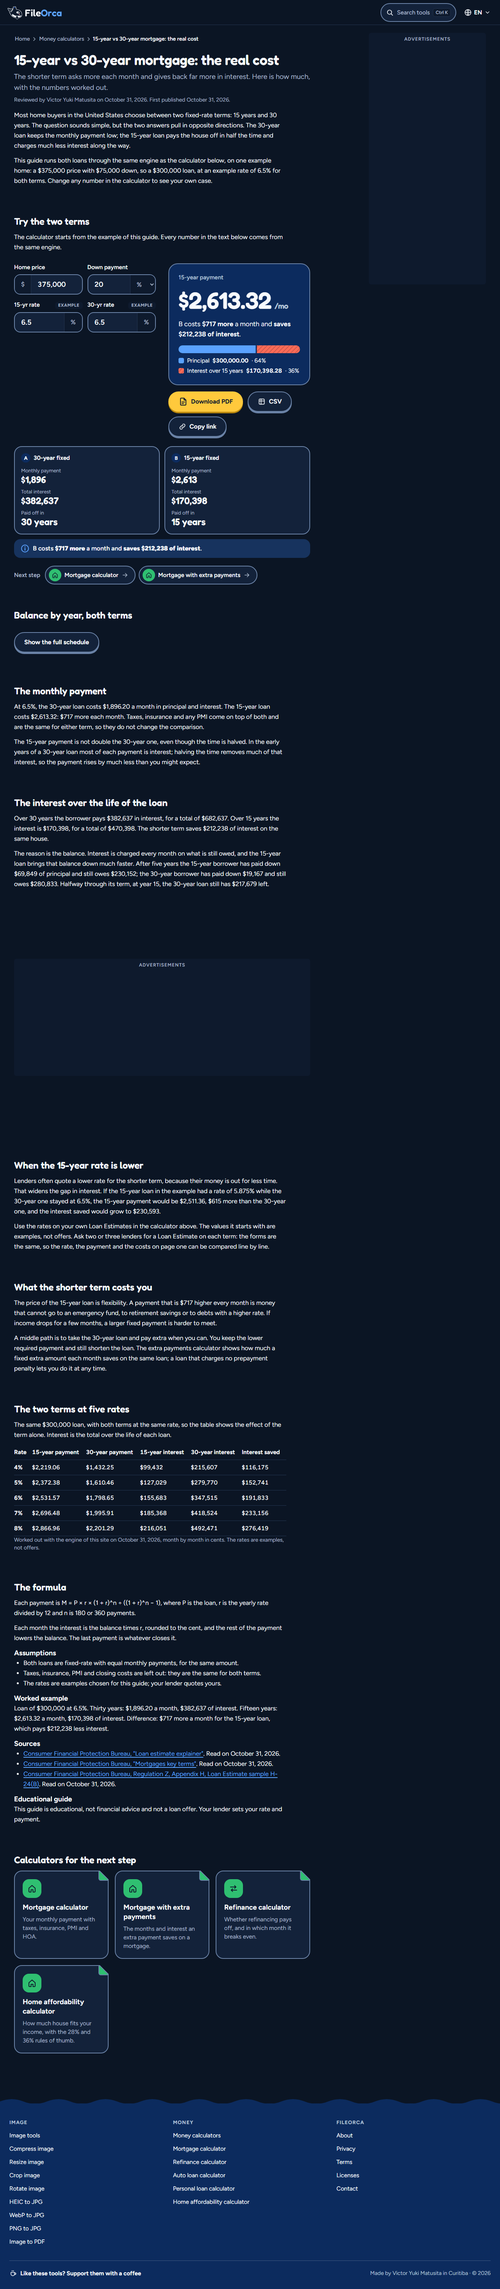
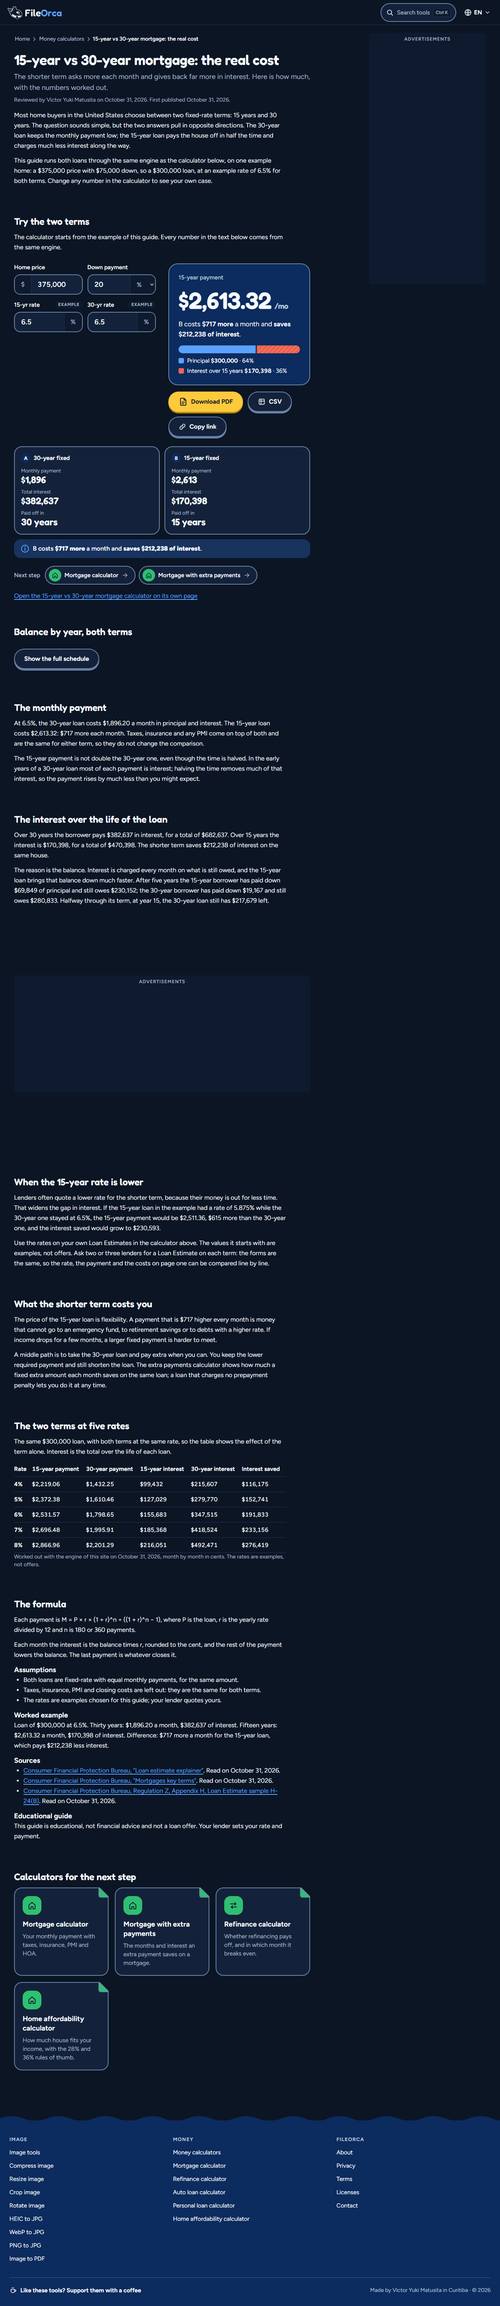
docs(f4): the adversarial review, decisions 137 to 141, screenshots after the fixes

diff --git a/docs/relatorios/REVISAO-F4.md b/docs/relatorios/REVISAO-F4.md
@@ -1,0 +1,206 @@
+# Revisão adversarial da F4
+
+Revisão final da run `fase-04` (calculadoras de dinheiro em inglês), no método da F3 (DECISOES § 92 a § 94 e § 139). O gabarito foi a ficha (`docs/prompts/prompt-fase-04.md`), o plano (`docs/relatorios/fase-04-plano.md`), o `CLAUDE.md`, o DECISOES.md § 110 a § 136 e o `docs/design/`.
+
+## Como rodou
+
+- **Commit fixo:** `ebfd6c1`, numa worktree só de leitura em `.claude/worktrees/revisao-f4`, com o próprio `pnpm install --frozen-lockfile` e o próprio `pnpm build`. A worktree foi removida no fim.
+- **Seis lentes Sonnet em contexto limpo**, cada uma com uma porta (`FO_PORT` 4174 a 4179) e uma pasta só dela em `.cache/lente-<x>/`:
+  1. corretude financeira;
+  2. privacidade dos números;
+  3. anúncio, política e YMYL;
+  4. acessibilidade;
+  5. desempenho e SEO;
+  6. design system.
+- **Céticos:** um cético próprio para cada achado crítico, alto ou médio, e um cético por lente para os baixos. Foram 24 céticos, cada um tentando refutar o achado com a regra "sem reprodução, refutado". Somando as lentes, foram 30 agentes, 1.290 chamadas de ferramenta e 34 minutos.
+- **Correções:** num agente só (o principal), cada uma com um teste que falha sem ela. Commits `8544ebe`, `a5b1a50`, `eba71cb`, `5d3f16b` e `e45415e`.
+- **Segunda passada:** um revisor Sonnet em contexto limpo leu só o diff das correções (`ebfd6c1..5d3f16b`) na mesma worktree, movida para `5d3f16b`.
+
+## Resultado
+
+| Severidade | Lentes | Depois dos céticos |
+| --- | --- | --- |
+| Crítico | 1 | 0 |
+| Alto | 1 | 1 |
+| Médio | 16 | 18 |
+| Baixo | 36 | 33 |
+| Refutado | (n/a) | 2 |
+
+- O único crítico da lente de acessibilidade era o número quebrado da Savings goal ("$1.2,261,029,503,889,166e+.27"). O cético o rebaixou a médio, porque só aparece com valores extremos dentro das faixas. É o mesmo ANU-2 da lente de anúncio. Foi corrigido no oráculo e no motor.
+- O único alto (DES-1, as caixas esticadas ao lado de um campo com ajuda) foi corrigido com subgrid (§ 137).
+- Os céticos subiram cinco baixos para médio: COR-8, ACE-4, ACE-6, ACE-10 e DES-10. Todos foram corrigidos.
+- Eles baixaram quatro médios para baixo: COR-5, ACE-3, SEO-1 e DES-3. O COR-5 e o SEO-1 foram corrigidos assim mesmo.
+- **Regra aplicada:**
+  - crítico e alto confirmados, sempre;
+  - médio, quando a correção é local (todos eram);
+  - baixo, quando a correção era local e barata; os outros vão para o relatório.
+- **Situação dos 54:** 32 corrigidos (contando os achados repetidos entre lentes) e 2 refutados. Ficam 20 pendentes: 18 baixos, o ACE-11 corrigido em parte e o DES-11, que virou registro (§ 140).
+
+## O que cada lente conferiu, em resumo
+
+- **Corretude:**
+  - os testes do oráculo, das definições, dos guias e do relatório, com 42 testes;
+  - as convenções do motor contra o oráculo, linha a linha;
+  - um fuzz de 7.038 renderizações das 18 definições, com invariantes (soma do cronograma, total, saldo final zero, sem `NaN` ou placeholder);
+  - todo valor em dólar das frases, rastreado até um número do motor;
+  - as premissas e os FAQ lidos contra o motor;
+  - os 5 guias, frase a frase;
+  - a APR refeita à parte;
+  - casos de borda pelas views reais.
+- **Privacidade:**
+  - os três specs da calculadora, nos dois navegadores (46 testes em cada);
+  - uma sonda própria em 40 cenários (cada opção de cada escolha, entrada em %, 10 linhas de dívidas e os 5 guias), com controle positivo de `fetch`, `sendBeacon` e `fetch` dentro do worker;
+  - o PDF sem metadados, a busca e um fuzz de 144 links do cenário.
+  - Nenhum número saiu do aparelho.
+- **Anúncio e YMYL:**
+  - o `ads.spec.ts` inteiro nos dois navegadores (50 testes em cada);
+  - uma medida própria de 23 páginas em seis larguras, com a Oli e o cronograma aberto;
+  - os blocos `data-ymyl` das 24 páginas, os portões de dinheiro e de conteúdo, a busca por texto proibido e a Privacidade e os Termos nos três idiomas.
+- **Acessibilidade:**
+  - o axe nas 25 páginas de dinheiro e em estados extras;
+  - a árvore de acessibilidade pelo CDP;
+  - a voz única, a navegação só por teclado nos dois navegadores e nas duas larguras, o contraste não textual, o reflow a 320 px, os valores máximos e o espaçamento de texto do WCAG 1.4.12.
+- **Desempenho e SEO:**
+  - o orçamento e os 16 ms;
+  - o pior caso do motor com a CPU 4 vezes mais lenta;
+  - o `gate:seo`, o `gate:links`, o JSON-LD e os sitemaps;
+  - o CLS e o LCP em 24 páginas;
+  - um Lighthouse próprio;
+  - a canibalização (sobreposição de 6-gramas do guia com a calculadora, de 18 a 25%).
+- **Design system:**
+  - o `design-checks.test.ts`;
+  - a cor computada em 20 páginas, nos dois temas;
+  - o CSS do bloco Money contra o `bundle.css`;
+  - a Oli e as suas poses;
+  - os alvos de toque, os chips, as relacionadas e o breadcrumb;
+  - os estados em PNG a 360 e 1280 px.
+
+## Achados que vieram de fora das lentes
+
+Antes da revisão, a própria run achou e corrigiu três defeitos, com teste:
+
+- **A comemoração empurrava o número** (`69eb38e`, § 140): na prévia, depois da primeira tecla, o número descia 96 px e saía da dobra no celular.
+- **Campos desalinhados** (`b3bb351`, § 137): achado no screenshot de 1280 px. É o mesmo DES-1 das lentes.
+- **O `networkidle` do WebKit do CI** (`5eee3a5`, § 138): nunca disparava nos hubs, com as requisições todas respondidas.
+
+## Os achados
+
+Na coluna "Lente → cético", a primeira severidade é a da lente; depois vêm o veredito do cético e a severidade dele. A lente de acessibilidade reusou os ids COR-1 e DES-1 em dois achados próprios: são o número quebrado da Savings goal e as caixas esticadas, e aparecem com esses ids na tabela dela.
+
+### (a) Corretude financeira
+
+| Id | Lente → cético | Achado | Situação |
+| --- | --- | --- | --- |
+| COR-1 | médio → confirmado (médio) | APY para APR custa 22 ms por tecla (orçamento da decisão 4: 16 ms) e calcula a raiz 365 duas vezes | corrigido em `eba71cb`; teste: `calc-speed.spec.ts`, "APY into APR, daily" (p95 1,6 ms) |
+| COR-2 | médio → confirmado (médio) | O FAQ da Personal loan manda zerar a tarifa financiada, e a página passa a mostrar a taxa nominal como APR | corrigido em `5d3f16b`; teste: `calc-defs.test.ts`, "the FAQ way to enter a fee added to the balance gives the true APR" |
+| COR-3 | médio → parcial (médio) | Estado de erro: o PDF da Savings goal leva '{deposit}' cru e o PDF de qualquer erro estoura a página | corrigido em `a5b1a50 e 5d3f16b`; teste: `calc-defs.test.ts` (pontas das faixas e estados de erro) e `calc.spec.ts` (DES-2, COR-3) |
+| COR-4 | médio → confirmado (médio) | Taxas pré-preenchidas sem a etiqueta 'example': taxa atual do Refinance e APR das dívidas | corrigido em `5d3f16b`; teste: `calc.spec.ts`, "every prefilled rate carries the example tag" |
+| COR-5 | médio → parcial (baixo) | Guia do Refinance diz 'a new 30 years loan' | corrigido em `5d3f16b`; teste: `calc.spec.ts`, "each guide links the calculator it embeds" (sem "N years loan") |
+| COR-6 | baixo → confirmado (baixo) | Singular e plural errados com n = 1: '1 years', '1 days', '1 months', '1 payments' | pendente (baixo): "1 years", "1 payments" com n = 1; texto, sem número errado |
+| COR-7 | baixo → confirmado (baixo) | Com entrada = preço (empréstimo zero) os presets de hipoteca mostram frases sem sentido, e o oráculo não tem esse caso | pendente (baixo): entrada igual ao preço nos presets dá frase sem sentido; caso de borda raro |
+| COR-8 | baixo → confirmado (médio) | Extra payments: com extra abaixo de uns $5 por mês a frase diz que não há extra, ao lado de um valor de juros economizados | corrigido em `5d3f16b`; teste: `calc-defs.test.ts`, "an extra too small to end the loan sooner still says what it saves" |
+| COR-9 | baixo → refutado (baixo) | A frase da diferença destoa em 1 dólar da diferença dos dois cards em cerca de 28% dos casos | refutado pelo cético |
+| COR-10 | baixo → parcial (baixo) | Home affordability: o 'máximo' sai arredondado para cima em dólares e o teto negativo usa hífen | pendente (baixo): arredondamento do máximo em dólares na frase da Home affordability; o resumo e o PDF têm centavos |
+| COR-11 | baixo → parcial (baixo) | O 'mínimo' das falas too-low é a condição necessária e leva a outro erro ou a prazos de 40 anos | pendente (baixo): o "mínimo" das falas too-low é a condição necessária, não a suficiente |
+| COR-12 | baixo → confirmado (baixo) | O oráculo não cobre o limite de 1.200 meses (too-long) em três calculadoras nem o extra único no último mês | pendente (baixo): o oráculo ainda não cobre too-long em três calculadoras nem o extra único no último mês |
+| COR-13 | baixo → confirmado (baixo) | Rent vs buy: 'Buying catches up in Year N' pode valer só por um tempo | pendente (baixo): "Buying catches up in Year N" pode valer só por um tempo; a tabela por ano mostra |
+| COR-14 | baixo → confirmado (baixo) | Credit card por prazo com saldo pequeno: 'pay $0.00 a month' | pendente (baixo): Credit card por prazo com saldo menor que o prazo em centavos dá parcela de $0.00; muda o motor, então pede caso no oráculo antes |
+| COR-15 | baixo → confirmado (baixo) | Afirmações de texto que não valem em geral (PMI igual nos dois prazos; premissa do guia de extras; 'juros uma vez por mês' em todas) | pendente (baixo): afirmações de texto gerais demais (PMI igual nos dois prazos e outras) |
+| COR-16 | baixo → confirmado (baixo) | Linhas do PDF sem rótulo e dois números de 'você' na poupança | pendente (baixo): linhas do PDF sem rótulo e dois números de "você" na poupança |
+| COR-17 | baixo → confirmado (baixo) | Refinance sem economia nem custo diz 'breaks even in month 1' e o atalho mostra 'Month 0' | pendente (baixo): Refinance sem economia nem custo diz "breaks even in month 1" |
+
+### (b) Privacidade dos números
+
+| Id | Lente → cético | Achado | Situação |
+| --- | --- | --- | --- |
+| PRI-1 | baixo → parcial (baixo) | O teste de privacidade deixa 14 sentinelas fora da busca e nunca digita nos campos de modo, nas linhas novas de dividas nem na entrada em % | pendente (baixo): o teste não digita nos campos que só aparecem com outro modo nem em linhas novas de dívidas; a sonda da lente cobriu 40 cenários e não achou vazamento |
+| PRI-2 | baixo → confirmado (baixo) | A asserção de que o link copiado foi lido nunca falha | corrigido em `5d3f16b`; teste: a própria asserção de `calc-privacy.spec.ts`, agora contra a sentinela no formato da página |
+| PRI-3 | baixo → confirmado (baixo) | Sem area de transferencia, o campo com o link fica com os numeros antigos depois de qualquer edicao | corrigido em `5d3f16b`; teste: `calc.spec.ts`, "without a clipboard, the shown link follows the numbers" |
+| PRI-4 | baixo → parcial (baixo) | cleanParams so fecha tool, target, format, outcome, reason e codec; lang, place e browser aceitam qualquer texto, e o teste so prova os fechados | pendente (baixo): lang, place e browser aceitam qualquer texto no cleanParams; nenhum deles vem de campo digitado |
+| PRI-5 | baixo → refutado (baixo) | O # com os numeros fica no location.href durante a visita inteira e o teste nao ve nenhum script de terceiro que o leia (AdSense) | refutado pelo cético |
+
+### (c) Anúncio, política e YMYL
+
+| Id | Lente → cético | Achado | Situação |
+| --- | --- | --- | --- |
+| ANU-1 | médio → parcial (médio) | Com a Oli cheer e a Placa, um resultado de 7 dígitos ou mais alarga o ResultHero: o painel passa de 150 px do anúncio lateral e a página rola no celular | corrigido em `5d3f16b`; teste: `calc.spec.ts`, "a long result with the cheer stays in its column" |
+| ANU-2 | médio → confirmado (médio) | Savings goal mostra o número 1.2,261,029,503,889,166e+.27 na legenda de juros quando a meta já está atingida, num valor que a faixa do campo aceita | corrigido em `8544ebe (oráculo) e a5b1a50 (motor)`; teste: `calc-oracle.test.ts` (casos too-large) e `calc-defs.test.ts` |
+| ANU-3 | médio → confirmado (médio) | Campos de taxa preenchidos com um valor de exemplo sem a etiqueta 'example' na Refinance e nas listas de dívidas | corrigido em `5d3f16b`; teste: o mesmo de COR-4 |
+| ANU-4 | baixo → confirmado (baixo) | As premissas do preset Biweekly se contradizem: 'juros uma vez por mês, taxa ÷ 12' e 'juros a cada duas semanas, taxa ÷ 26' | corrigido em `5d3f16b`; teste: `calc-defs.test.ts`, "Biweekly: the monthly rule of interest is said as the comparison" |
+| ANU-5 | baixo → confirmado (baixo) | A Privacidade não cita o sessionStorage da Oli e traz 'Última atualização' de 31/out com texto mudado em 1/nov | corrigido em `5d3f16b`; teste: `calc-defs.test.ts`, "the privacy policy names the Oli's session mark" |
+
+### (d) Acessibilidade
+
+| Id | Lente → cético | Achado | Situação |
+| --- | --- | --- | --- |
+| COR-1 | crítico → parcial (médio) | Savings goal mostra número quebrado ('$1.2,261,029,503,889,166e+.27') com valores dentro das faixas aceitas | corrigido em `8544ebe e a5b1a50`; teste: o mesmo de ANU-2 |
+| ACE-1 | médio → confirmado (médio) | O atraso de 500 ms do aria-live conta desde a última mudança do resultado, não desde a última tecla | corrigido em `5d3f16b`; teste: `calc.spec.ts`, "the hero speaks half a second after the last key press" |
+| ACE-2 | médio → parcial (médio) | O campo 'Home value change per year' (aceita negativo) usa inputmode="decimal", cujo teclado do iPhone não tem o sinal de menos | corrigido em `5d3f16b`; teste: `calc.spec.ts`, "the one field that takes a minus opens the text keyboard" |
+| ACE-3 | médio → parcial (baixo) | A unidade do campo (years, months, %, $) é só visual: não entra no nome nem na descrição do campo | pendente (baixo): a unidade (years, %, $) é visual e o nome do campo não a traz; o erro diz a unidade |
+| DES-1 | médio → confirmado (médio) | Um campo ao lado de outro com ajuda ou erro estica e passa de 48 px (HOA dues fica com 86 a 96 px de altura na Mortgage) | corrigido em `b3bb351 e 5d3f16b`; teste: `calc.spec.ts`, "two fields side by side keep their inputs on one line" e "the box of every field is control-h high" |
+| ACE-4 | baixo → confirmado (médio) | O aria-label do SplitChart traz os valores mas não as porcentagens que o README pede | corrigido em `5d3f16b`; teste: `calc.spec.ts`, "the chart is named with whole dollars and both shares" |
+| ACE-5 | baixo → confirmado (baixo) | O cabeçalho fixo do cronograma cobre quase todo o botão de ano ao voltar com Shift+Tab | corrigido em `5d3f16b`; teste: `calc.spec.ts`, "the header never hides a year" |
+| ACE-6 | baixo → confirmado (médio) | Na lista de dívidas o foco vai para o body quando o botão focado some (décima dívida, última linha removida, mínimo) | corrigido em `5d3f16b`; teste: `calc.spec.ts`, "the keyboard focus stays in the list when debts come and go" |
+| ACE-7 | baixo → parcial (baixo) | A ordem de tabulação no computador pula para a coluna do resultado e volta (campos principais, ExportBar, campos opcionais) | pendente (baixo): no computador a tabulação vai aos campos principais, à coluna do resultado e volta aos opcionais; é a ordem do HTML, que o molde fixa |
+| ACE-8 | baixo → parcial (baixo) | Botões 'CSV' e o de mostrar o cronograma: nome fraco e rótulo que muda junto com aria-expanded | pendente (baixo): "CSV" e o botão do cronograma com nome fraco |
+| ACE-9 | baixo → parcial (baixo) | AmortTable sem cabeçalho de linha (th scope=row) e região e tabela com o mesmo nome | pendente (baixo): o cronograma sem th scope=row e a região com o mesmo nome da tabela |
+| ACE-10 | baixo → confirmado (médio) | Reflow: a legenda do gráfico alarga a página com números de 10 dígitos a 320 px, e o espaçamento de texto do WCAG 1.4.12 alarga a página por causa da Oli com a Placa | corrigido em `5d3f16b`; teste: o mesmo de ANU-1, mais a legenda de 10 dígitos a 320 px |
+| ACE-11 | baixo → confirmado (baixo) | Credit card payoff: pagamento que não cobre os juros não marca o campo, e a Oli comemora com uma placa '-' | em parte: a Oli não comemora no problema (DES-2); o campo do pagamento ainda não é marcado com aria-invalid. Pendente (baixo) |
+
+### (e) Desempenho e SEO
+
+| Id | Lente → cético | Achado | Situação |
+| --- | --- | --- | --- |
+| SEO-1 | médio → parcial (baixo) | Os 5 guias embutem uma calculadora mas nao linkam a pagina dela (link interno so de ida) | corrigido em `5d3f16b`; teste: `calc.spec.ts`, "each guide links the calculator it embeds" |
+| SEO-2 | baixo → parcial (baixo) | Titulo e descricao da calculadora puxam o mesmo angulo do guia correspondente | pendente (baixo): título e descrição da calculadora e do guia puxam ângulos parecidos; a sobreposição medida do texto é de 18 a 25% |
+| SEO-3 | baixo → confirmado (baixo) | WebApplication.name de dois presets nao e o H1 nem o ultimo item do breadcrumb | corrigido em `5d3f16b`; teste: `calc.spec.ts`, "the pages name their calculator as their H1" |
+
+### (f) Design system
+
+| Id | Lente → cético | Achado | Situação |
+| --- | --- | --- | --- |
+| DES-1 | alto → confirmado (alto) | Campo vizinho de outro com ajuda, etiqueta ou erro estica a caixa do input acima de control-h | corrigido em `b3bb351 e 5d3f16b`; teste: o mesmo de DES-1 da lente de acessibilidade |
+| DES-2 | médio → confirmado (médio) | Oli em cheer com a Placa '-' no estado de erro do resultado | corrigido em `5d3f16b`; teste: `calc.spec.ts`, "a problem shows no Oli and turns the PDF and CSV off" |
+| DES-3 | médio → parcial (baixo) | O campo recusa o próprio formato ao editar no lugar e a fala do erro diz a faixa de um valor que está na faixa | pendente (baixo): o campo recusa o próprio formato ao editar no lugar ("1,2" no meio de "375,000"); a fala do erro diz a faixa |
+| DES-4 | médio → confirmado (médio) | Taxa pré-preenchida sem a etiqueta 'example' (Refinance, Debt payoff, Debt consolidation e dois guias) | corrigido em `5d3f16b`; teste: o mesmo de COR-4 |
+| DES-5 | baixo → confirmado (baixo) | A Placa do ResultHero entra sem .fo-pop | corrigido em `5d3f16b`; teste: `calc.spec.ts` (a Placa com `.fo-pop`) |
+| DES-6 | baixo → confirmado (baixo) | SplitChart: aria-label sem porcentagens e valores com centavos enquanto a frase acima está em dólares inteiros | corrigido em `5d3f16b`; teste: o mesmo de ACE-4 |
+| DES-7 | baixo → confirmado (baixo) | Legenda do SplitChart quebra com um '·' solto a 360 px nos guias | corrigido em `5d3f16b`; teste: `calc.spec.ts`, "its legend keeps the share with its amount" |
+| DES-8 | baixo → confirmado (baixo) | Falha do PDF diz o erro sem o ícone alert | corrigido em `e45415e`; teste: `calc.spec.ts`, "a PDF maker that cannot load" |
+| DES-9 | baixo → confirmado (baixo) | ScenarioCompare empilha em 372 a 379 px de viewport, onde o README manda ficar lado a lado | corrigido em `5d3f16b`; teste: `calc.spec.ts`, "the two scenarios stay side by side from 340px of column" |
+| DES-10 | baixo → confirmado (médio) | O saldo de fim de ano do AmortTable fica fora da tela a 360 px | corrigido em `5d3f16b`; teste: `calc.spec.ts`, "the balance of each year stays in the frame" |
+| DES-11 | baixo → parcial (baixo) | Tamanho do número do ResultHero e respiro do cartão no celular fora dos estilos nomeados e sem decisão registrada | registrado na DECISOES § 140 (os tamanhos do ResultHero no celular), sem mudança de código |
+
+## A segunda passada
+
+Um revisor Sonnet em contexto limpo leu só o diff das correções (`ebfd6c1..5d3f16b`), na mesma worktree movida para `5d3f16b`.
+
+**O que ele conferiu:**
+- o Vitest inteiro: 862 testes, todos verdes;
+- os specs da calculadora, de anúncio, de orçamento, de velocidade, de eventos, de navegação e de acessibilidade nos dois navegadores, todos verdes;
+- o `iroot` novo contra o antigo em 11.475 casos (m pequeno, k de 1 a 5.000, potências exatas ±2 e o formato real do motor), com 0 diferenças;
+- a hidratação: o HTML do servidor contra o DOM hidratado;
+- o alinhamento da grade de campos em 23 páginas e 5 larguras;
+- uma cópia instrumentada do teste de privacidade, para ver que a asserção nova de "o link foi lido" não é vazia.
+
+**Achados e situação:**
+
+| # | Severidade | Achado | Situação |
+| --- | --- | --- | --- |
+| 1 | médio | Com um campo a corrigir (resultado velho), o PDF e o CSV seguiam ligados e saíam com as entradas novas e o resultado antigo | corrigido em `381fc3f`; teste: `calc.spec.ts`, "a stale result (a field to fix) turns the PDF and CSV off" |
+| 2 | médio | No WebKit, o subgrid deixava 12 px vazios embaixo de um grupo de opções (fieldset), e o número do resultado descia uns 12 px | corrigido em `381fc3f` (o fieldset ocupa uma linha, sem subgrid); teste: "a group of options keeps the 16px gap", que falhava só no WebKit |
+| 3 | baixo | O teste da Placa longa não chegava às regras dela: o passo de 320 px abria por link, sem tecla e sem a Oli | corrigido em `381fc3f`: o passo digita numa aba nova e confere a Placa de 13 caracteres dentro do cartão. Com as regras antigas injetadas, o cartão vai a 429 px e o teste acusa |
+| 4 | baixo | O teste das pontas das faixas pulava a lista de dívidas e a entrada | corrigido em `381fc3f` |
+| 5 | baixo | O caso "large-under-cap" do oráculo ficava 500 vezes abaixo de 10^15 | corrigido em `5924a33`: dois casos novos do oráculo, a 0,80 × 10^15 e acima do limite |
+| 6 | baixo | O código citava as §§ 137 a 139 e este arquivo antes de eles existirem | corrigido no commit de documentação |
+| 7 | baixo | A 360 px, o saldo do ano ficava visível, mas o cabeçalho "Balance" não | corrigido em `381fc3f` (o cabeçalho também fica à direita); teste: "the Balance heading stays over the balance of the year" |
+
+**Fora do diff**, ele achou mais dois:
+- "With the 28% housing limit setting the limit" repetia "limit": virou "Under the 28% housing limit".
+- A asserção da data da Privacidade (`not.toMatch(/31/)`) era fraca: passou a conferir a data exata nos três idiomas.
+
+Os três testes novos da segunda passada falham contra o build anterior às correções e passam depois delas, nos dois navegadores (434 testes de ponta a ponta verdes).
+
+## A worktree
+
+A worktree `.claude/worktrees/revisao-f4` foi removida com `git worktree remove` depois da segunda passada. Os scripts e as medidas das lentes ficaram no `.cache/` dela e saíram junto, como na F3.

diff --git a/DECISOES.md b/DECISOES.md
@@ -1060,3 +1060,57 @@ Achados médios confirmados e os baixos da F2 que se confirmaram. Cada um tem te
 
 - **Por que as de imagem subiram 0,3 a 0,4 KB:** o chunk `island` é o mesmo para imagem e dinheiro. Ele ganhou a lista de ids das calculadoras em `tool-ids.ts` e os eventos novos (§ 113).
 - **Pares:** de imagem para calculadora, 2 requisições novas (o HTML e a entrada); de calculadora para calculadora, 1 (o HTML); do hub para uma calculadora, 3 (o HTML, a entrada e o `island`). Todas cabem no orçamento de 3.
+
+## § 137 · Dois campos lado a lado dividem a linha do rótulo (subgrid) (F4, 1/nov/2026)
+
+- **Contexto:** no screenshot de 1280 px, o campo de HOA ficava 34 px abaixo do de PMI, que tem uma linha de ajuda embaixo. O `.fo-field` esticava até a altura da linha da grade, e a sobra ia para as linhas `auto` dele, inclusive a da caixa: a caixa do HOA chegava a 86 px a 1280 e 96 px a 360, contra os 52 do `control-h`. As lentes de design e de acessibilidade acharam o mesmo (DES-1). A primeira tentativa, `align-items: start`, desalinhava ao contrário quando um rótulo quebrava em duas linhas ("Home insurance per year" a 360 px).
+- **Decisão:** o `CalcField` passa a ter dois filhos, o rótulo e o corpo (`.fo-field__body`: a caixa, a ajuda e o erro). Cada item da `.fo-calc__fields` ocupa duas linhas da grade, e o campo as usa com `grid-template-rows: subgrid`. Os dois campos de uma linha dividem a altura do rótulo, as caixas começam juntas e ficam com 52 px. A etiqueta "example" fica centrada no rótulo, que deixa de ter 21 px.
+- **Prova:** `calc.spec.ts`, "two fields side by side keep their inputs on one line" e "the box of every field is control-h high", a 360 e a 1280 px, com ajuda, etiqueta e erro.
+
+## § 138 · O orçamento espera a página ficar quieta sem o `networkidle` (F4, 1/nov/2026)
+
+- **Contexto:** no CI, a parte 2 do WebKit falhou duas vezes seguidas no `budgets.spec.ts` dos hubs (o `/money-calculators/` na execução 41272269545; o `/image-tools/` e o `/money-calculators/` na 41273044165). O `page.waitForLoadState('networkidle')` estourou os 60 s. Os traces do artefato `playwright-report-2` mostram as cinco requisições de cada hub respondidas com 200 em menos de 2 s. A página estava quieta, e o evento do Playwright nunca veio. Na máquina local, a mesma parte passa inteira.
+- **Decisão:** o `budgets.spec.ts` espera de outro jeito, num `settler` próprio. Ele aguarda o evento `load` e depois 1 s sem requisição nova, com todas respondidas ou falhas. Também espera os corpos dos scripts que mede. É mais rígido que o `networkidle`, que pede 0,5 s. Passados 20 s sem a página assentar, o teste falha listando as requisições abertas, em vez de travar. Os limites do orçamento não mudaram, e nenhum `retries` entrou.
+- **Por quê:** a própria documentação do Playwright desaconselha o `networkidle`, e o trace provou que o site não segurava a rede.
+
+## § 139 · A revisão adversarial da F4 e o que ela corrigiu (F4, 1/nov/2026)
+
+- **Método** (F3, § 92 a § 94):
+  - **Lentes.** Seis lentes Sonnet em contexto limpo, sobre o commit `ebfd6c1`, na worktree só de leitura `.claude/worktrees/revisao-f4`, com install e build próprios. Cada lente teve a sua porta (4174 a 4179) e a sua pasta em `.cache/`.
+  - **Céticos.** Um cético por achado crítico, alto ou médio, e um por lente para os baixos, num total de 30 agentes.
+  - **Correções.** Feitas num agente só, com um teste que falha sem cada uma.
+  - **Segunda passada.** Revisou o diff `ebfd6c1..5d3f16b` e achou 2 médios e 5 baixos, todos corrigidos com teste em `5924a33` e `381fc3f`: o PDF e o CSV também ficam desligados com o resultado velho; o grupo de opções sai do subgrid; o cabeçalho "Balance" acompanha o saldo; e há casos do oráculo dos dois lados de 10^15 centavos.
+- **Resultado:**
+  - **Achados.** 54, sendo 2 refutados. Nenhum crítico ficou de pé: o único foi rebaixado a médio pelo cético. Ficou 1 alto (DES-1, § 137).
+  - **Corrigidos.** Todo achado de severidade média ou alta, depois do cético, e os baixos de correção local.
+  - **Pendentes.** Os outros baixos vão para o relatório. A tabela completa, com commit e teste de cada correção, está em `docs/relatorios/REVISAO-F4.md`.
+- **O que mudou de comportamento:**
+  - **Savings goal.** Passa a dar "too-large" acima de 10^15 centavos, como a Compound interest. O oráculo mudou antes (`8544ebe`) e o motor depois (`a5b1a50`), com três casos novos.
+  - **Problema no resultado.** Enquanto o resultado é um problema (um pagamento abaixo dos juros, dívidas acima do limite), o PDF e o CSV ficam desligados e a Oli não comemora. A comemoração da visita espera um resultado.
+  - **Voz do resultado.** A região viva do ResultHero fala 500 ms depois da última tecla, também a que não muda o número.
+  - **Campo que aceita negativo.** A valorização do imóvel abre o teclado de texto, porque o decimal do iPhone não tem o sinal de menos.
+  - **Raiz inteira.** O `iroot` começa de uma estimativa de ponto flutuante. São as mesmas raízes, conferidas uma a uma em 9.064 casos. A APY para APR caiu de 22 ms para 1,6 ms por tecla e entrou no teste dos 16 ms.
+  - **Textos.**
+    - O FAQ da Personal loan explica a tarifa somada ao saldo de modo que a APR fique certa.
+    - As premissas do Biweekly não se contradizem mais.
+    - A Privacidade, nos três idiomas, cita a marca de sessão da Oli, com a data de 1/nov/2026 (os Termos também ganharam a data).
+    - Cada guia linka a página da calculadora que embute.
+    - O schema `WebApplication` usa o H1.
+
+## § 140 · O ResultHero no celular e a comemoração no fim do cartão (F4, 1/nov/2026)
+
+- **Decisão:**
+  - **Tamanhos no celular.** Abaixo de 768 px, o número do ResultHero fica em 48/52 px e o cartão tem `space-5` de respiro. A partir de 768 px, valem os tamanhos do design system: 60/64 px e `space-6`. É o que deixa o resultado acima da dobra a 360 × 740 (§ 124). O README do ResultHero não fixa os tamanhos do celular, e a lente de design pediu o registro (DES-11).
+  - **Comemoração no fim do cartão.** A Oli em `cheer`, com a Placa, entra no fim do cartão, depois do gráfico. Na primeira tecla da visita, ela entrava acima do número e o empurrava 96 px para baixo, e no celular ele saía da dobra. Isso foi visto na prévia; o commit é o `69eb38e`, com teste no `calc.spec.ts`.
+
+## § 141 · O `ENOSPC` do WebKit voltou, agora na parte 3 (F4, 1/nov/2026)
+
+- **Contexto:** na execução 41275792910 (commit `5d3f16b`), a parte `playwright (webkit 3 de 3)` falhou em dois testes do `design.spec.ts` que a F4 não tocou: "processing: the swim loops" e "support page: the coffee steam rises in a loop". Os dois morreram com `browserContext.close: ENOSPC: no space left on device, write` às 05:21:04.
+- **O que o diagnóstico da § 109 mostrou:**
+  - Às 05:10:49, durante os testes da Oli a 1280 × 800, o `/` caiu de 10.883 para 7.737 MB livres. A busca funda disparou e não achou arquivo apagado e aberto, arquivo acima de 20 MB gravado, pasta de sistema grande nem core dump; o `find` foi interrompido em 60 s. O espaço voltou a 10.873 MB.
+  - Às 05:20:50, havia 10.220 MB livres. Os dois testes caíram 14 s depois, e às 05:21:05 o disco já estava com 10.880 MB livres. A amostra de 20 s não pegou o fundo da queda.
+- **O que se sabe:**
+  - A queda segue o `design.spec.ts` (Oli e movimento) no WebKit do Linux, qualquer que seja a parte em que ele cai. Na § 108 ela foi na parte 2.
+  - Ela some em segundos. Na F4, o `design.spec.ts` passou para a parte 3, porque as páginas novas empurram os testes pela divisão por contagem.
+  - As execuções 41274088572 (`5eee3a5`) e anteriores da mesma PR passaram nessa spec.
+- **Decisão:** nada muda em teste, `retries`, timeout ou workflow. A F4 não pode mexer no `.github/`, e o diagnóstico é de outro ajuste (§ 109). O commit seguinte roda o CI de novo. Fica a proposta para um ajuste: amostrar o disco a cada 2 s durante o `design.spec.ts` no Linux, ou gravar o trace desses testes fora do `/`.
